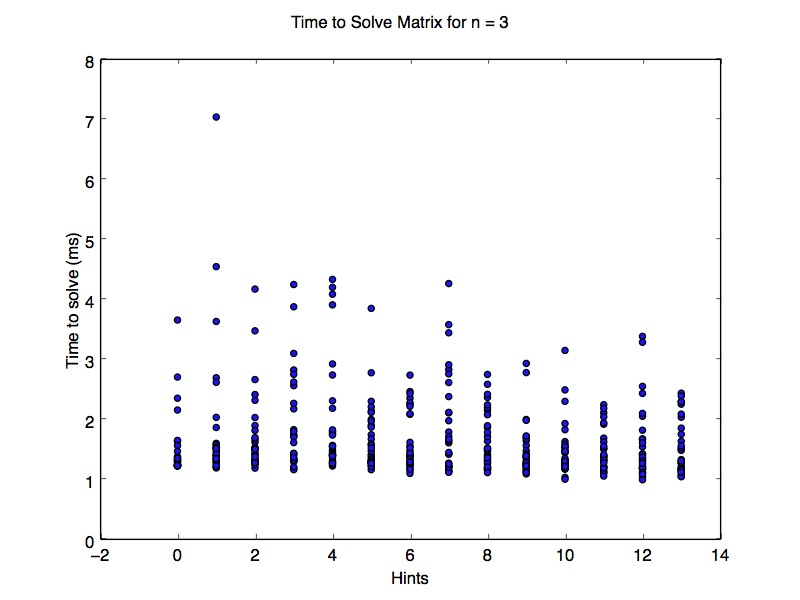
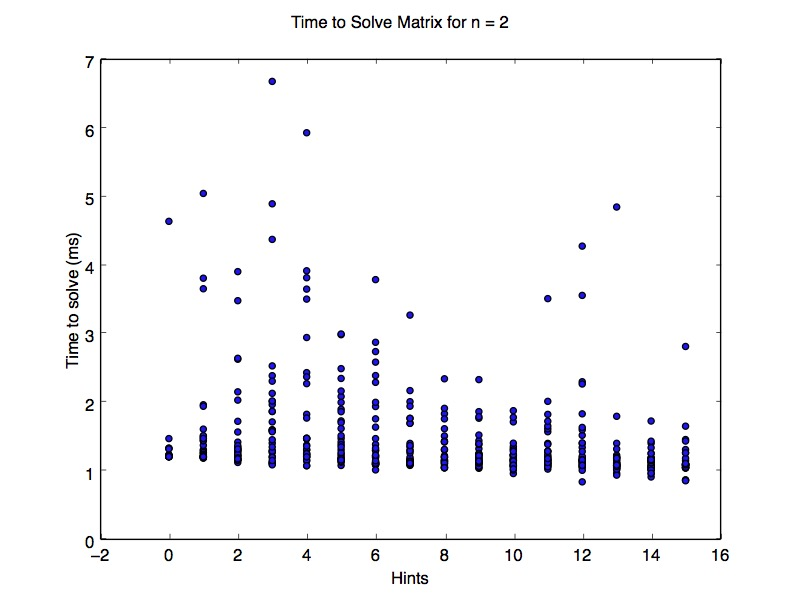
Added benchmark scripts

diff --git a/src/fourbench.py b/src/fourbench.py
@@ -34,7 +34,7 @@ def main(argc, argv):
 
     fig = plt.figure()
     points = set()
-    fakei = 3
+    fakei = 2
 
     i = fakei*fakei
 
@@ -44,7 +44,7 @@ def main(argc, argv):
     bestPuzzle = []
     bestTime = 900000000
 
-    for hints in range(0, 15):
+    for hints in range(0, i**2):
         print "\t hints = " + str(hints)
         success = 1
         
@@ -101,9 +101,9 @@ def main(argc, argv):
     plt.scatter(x,y)
     plt.xlabel("Hints")
     plt.ylabel("Time to solve (ms)")
-    plt.suptitle("Time to Solve Matrix for n = 3")
+    plt.suptitle("Time to Solve Matrix for n = 2")
 
-    fig.savefig("nine.jpg")
+    fig.savefig("four.jpg")
 
     
     print "Worst Puzzle took " + str(worstTime) + "s"

diff --git a/src/sudoku/backtrack.py b/src/sudoku/backtrack.py
@@ -37,8 +37,8 @@ class Sudoku:
             print "Box level = " + str(box)
             self.show(matrix)
            
-        if time.time() - self.startTime > 900000:
-            return matrix #We just cant spend anymore time solving this crap
+        if time.time() - self.startTime > 1800:
+            raise ValueError("Timeout")
             
         #self.percentage(matrix)
         
